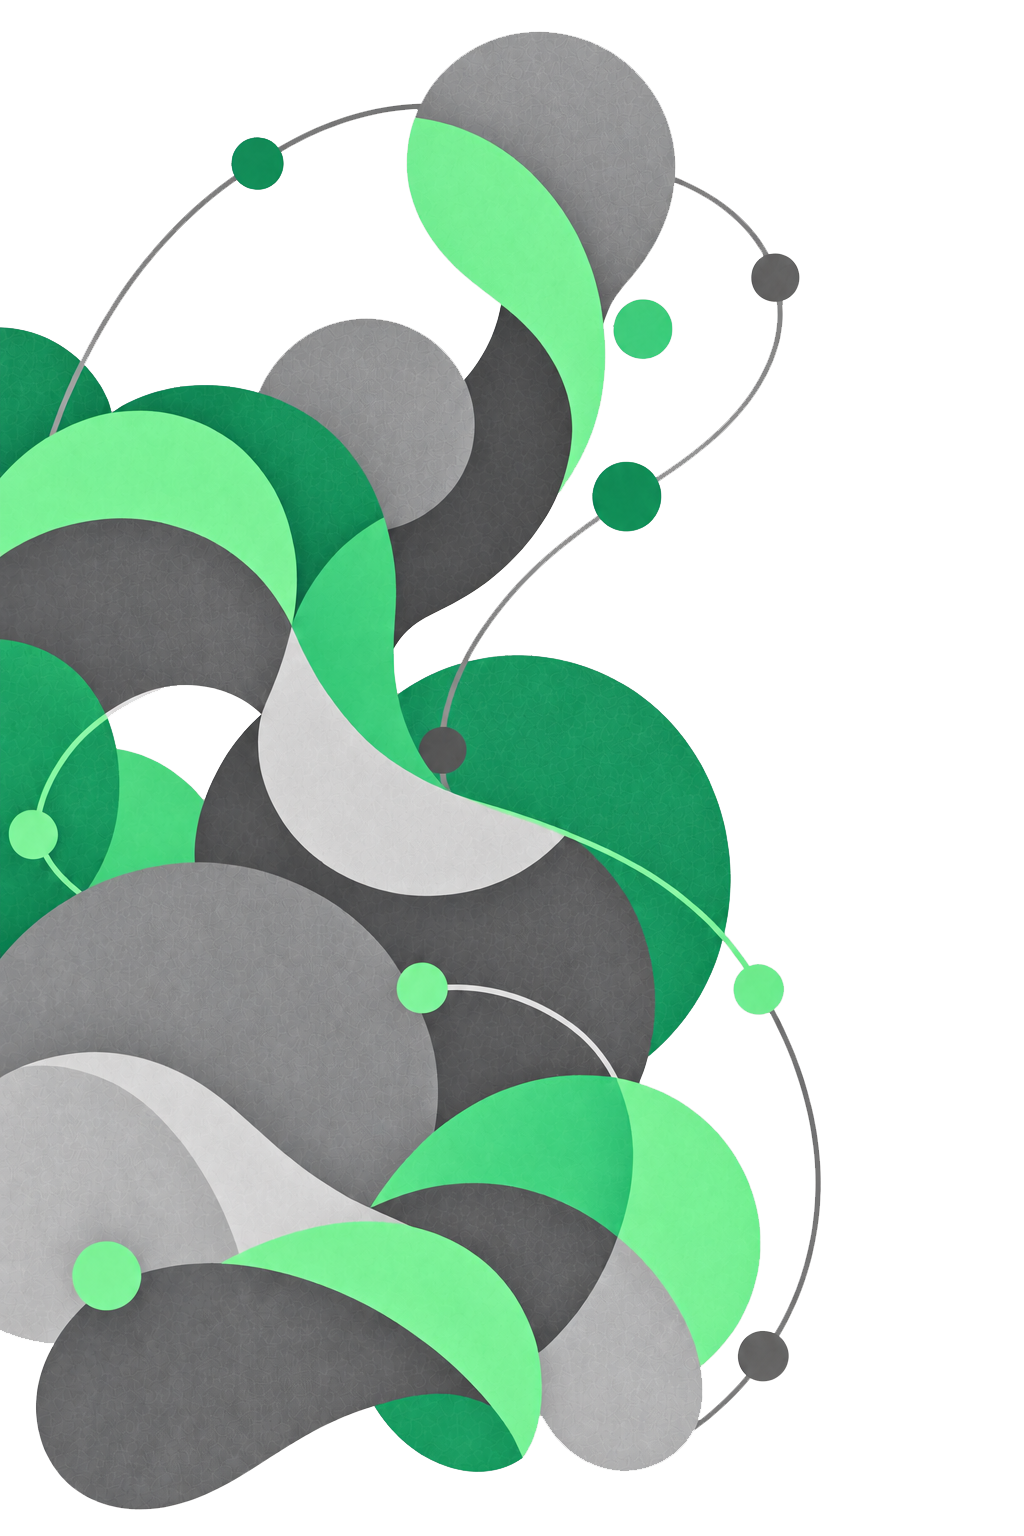
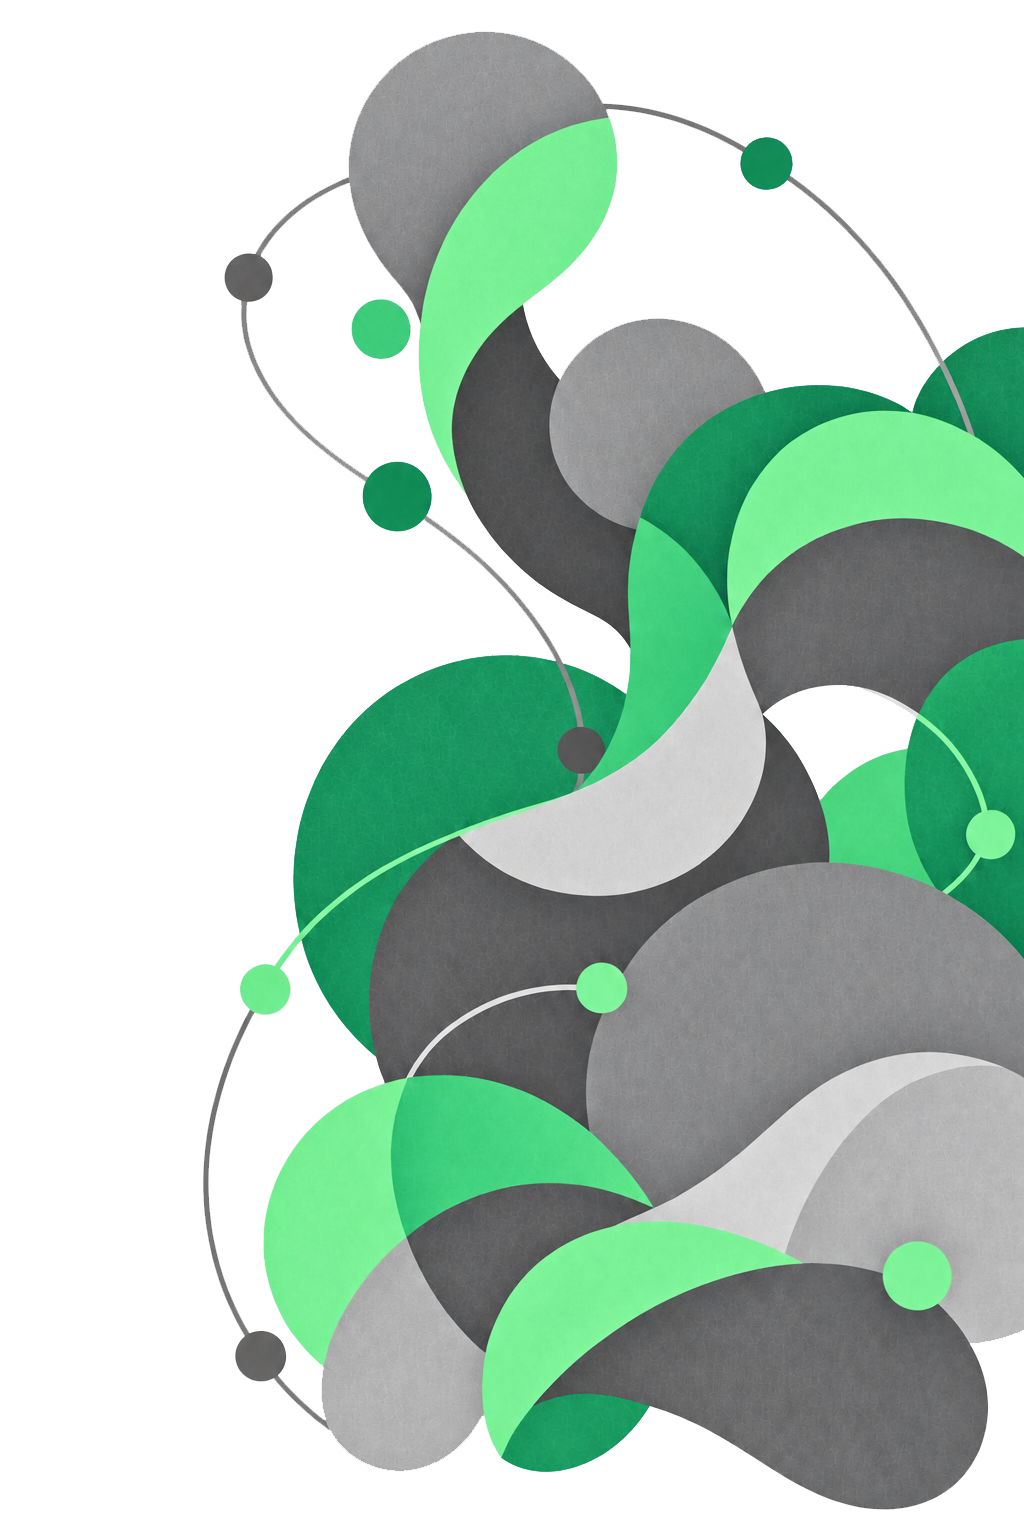
removed additional image flipping

diff --git a/src/components/AuthPanel.vue b/src/components/AuthPanel.vue
@@ -10,7 +10,7 @@
       aria-label="Convo"
     >
       <q-img
-        class="fit flip-horizontal"
+        class="fit"
         fit="cover"
         :src="isDark ? authArtDark : authArtLight"
         alt=""
